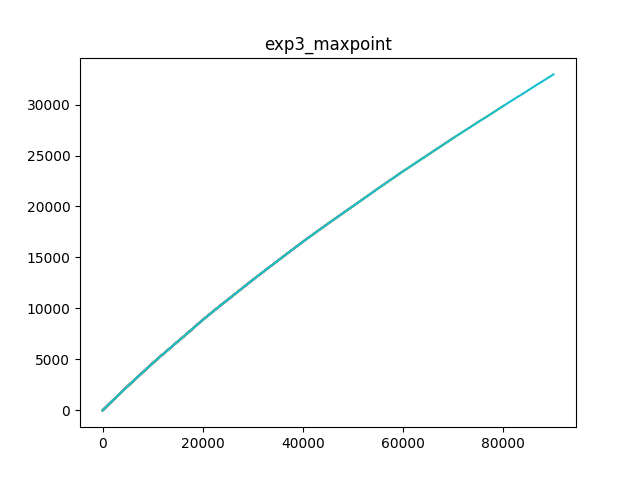
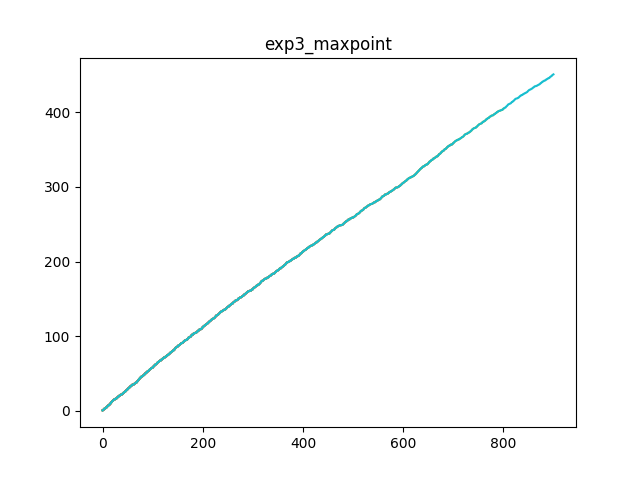
Scale experiments

diff --git a/main.py b/main.py
@@ -5,9 +5,18 @@ import exp3m
 import reward_functions as r
 import matplotlib.pyplot as plt
 from multiprocessing import Process
+import pandas as pd
 
 numbers = np.random.choice(range(10000), 1000)
-rounds = 100000
+
+
+def write_regret(results, annotation, f_name):
+    with open(f"results/{f_name}.csv", 'w+') as f:
+        f.write('#' + annotation+'\n')
+        f.write("round,regret\n")
+        r = np.cumsum(results)
+        f.write(
+            '\n'.join([f"{i},{r}" for i, r in enumerate(r)]))
 
 
 def binary_exp3(rounds, numbers):
@@ -17,10 +26,9 @@ def binary_exp3(rounds, numbers):
     for i in range(rounds):
         bandit.draw()
         regrets.append(bandit.give_reward(numbers))
-        if i % int(rounds/10) == 0:
-            plt.plot(np.cumsum(regrets))
-            plt.title("exp3_binary")
-            plt.savefig(f"plots/exp3_binary")
+
+    write_regret(
+        regrets, f"exp3_binary rounds = {rounds}", f"exp3_binary/{rounds}-{len(numbers)}")
 
 
 def binary_exp3m(rounds, numbers):
@@ -29,10 +37,9 @@ def binary_exp3m(rounds, numbers):
     for i in range(rounds):
         bandit.draw(100)
         regrets.append(bandit.give_reward(numbers))
-        if i % int(rounds/10) == 0:
-            plt.plot(np.cumsum(regrets))
-            plt.title("exp3m_binary, k = 100")
-            plt.savefig(f"plots/exp3m_binary")
+
+    write_regret(
+        regrets, f"exp3m_binary rounds = {rounds}", f"exp3m_binary/{rounds}-{len(numbers)}")
 
 
 def max_point_exp3(rounds, numbers):
@@ -42,10 +49,9 @@ def max_point_exp3(rounds, numbers):
     for i in range(rounds):
         bandit.draw()
         regrets.append(bandit.give_reward(numbers))
-        if i % int(rounds/10) == 0:
-            plt.plot(np.cumsum(regrets))
-            plt.title("exp3_maxpoint")
-            plt.savefig(f"plots/exp3_maxpoint")
+
+    write_regret(
+        regrets, f"exp3 maxpoint rounds = {rounds}", f"exp3_max/{rounds}-{len(numbers)}")
 
 
 def max_point_exp3m(rounds, numbers):
@@ -58,14 +64,24 @@ def max_point_exp3m(rounds, numbers):
             plt.plot(np.cumsum(regrets))
             plt.title("exp3m_maxpoint, k = 100")
             plt.savefig(f"plots/exp3m_maxpoint")
+    write_regret(
+        regrets, f"exp3m maxpoint rounds = {rounds}", f"exp3_max/{rounds}-{len(numbers)}")
 
 
-p1 = Process(target=binary_exp3, args=(rounds, numbers,))
-p2 = Process(target=binary_exp3m, args=(rounds, numbers,))
-p3 = Process(target=max_point_exp3, args=(rounds, numbers,))
-p4 = Process(target=max_point_exp3m, args=(rounds, numbers,))
+rounds_exp3 = [1000, 1000*10, 1000*10**2, 1000*10**3, 4000*10**3]
+n_exp3 = [1000, 1000*10, 1000*10**2, 1000*10**3, 4000*10**3]
+rounds_exp3m = [1000, 1000 * 10]
 
-p1.start()
-#p2.start()
-p3.start()
-#p4.start()
+for i, rounds in enumerate(rounds_exp3):
+    numbers = np.random.choice(range(rounds * 10), n_exp3[i])
+    p1 = Process(target=binary_exp3, args=(rounds, numbers,))
+    p1.start()
+    p2 = Process(target=max_point_exp3, args=(rounds, numbers,))
+    p2.start()
+
+for i, rounds in enumerate(rounds_exp3):
+    numbers = np.random.choice(range(rounds * 10), rounds)
+    p1 = Process(target=binary_exp3m, args=(rounds, numbers,))
+    p1.start()
+    p2 = Process(target=max_point_exp3m, args=(rounds, numbers,))
+    p2.start()
